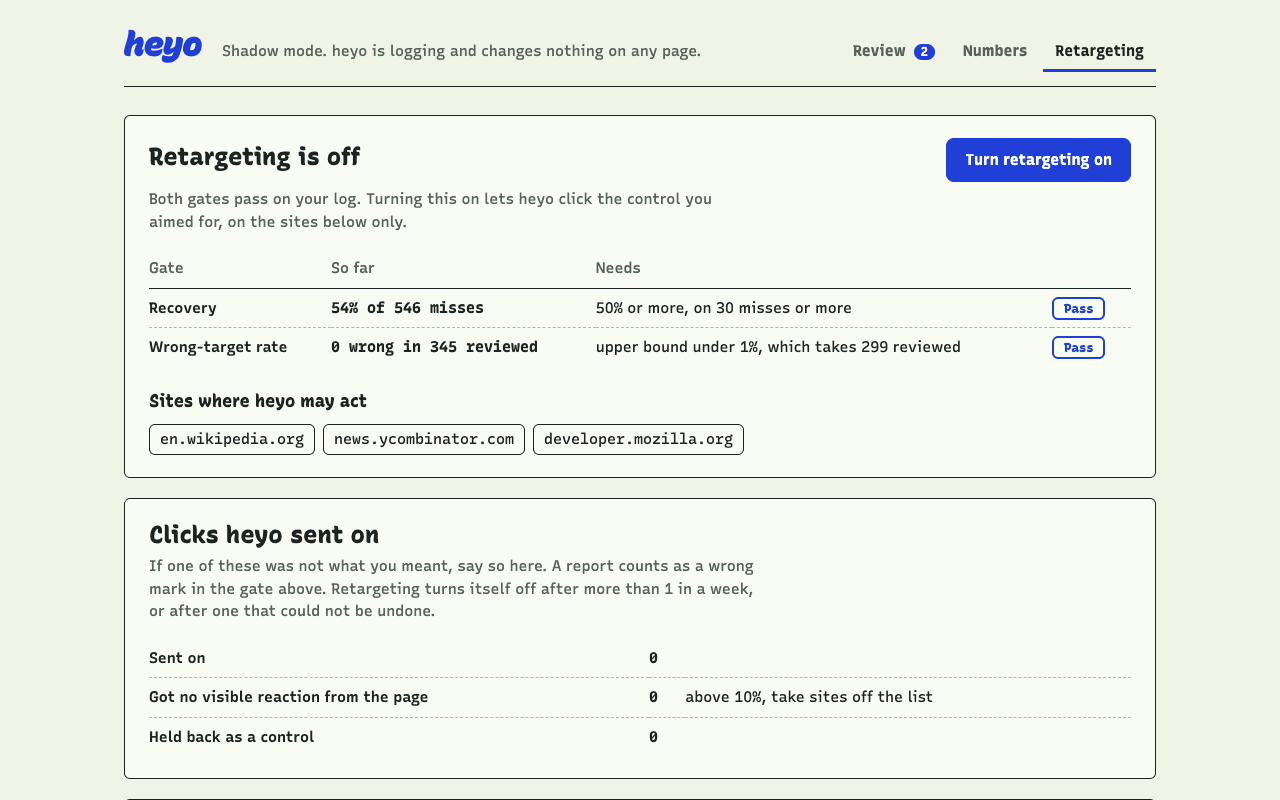
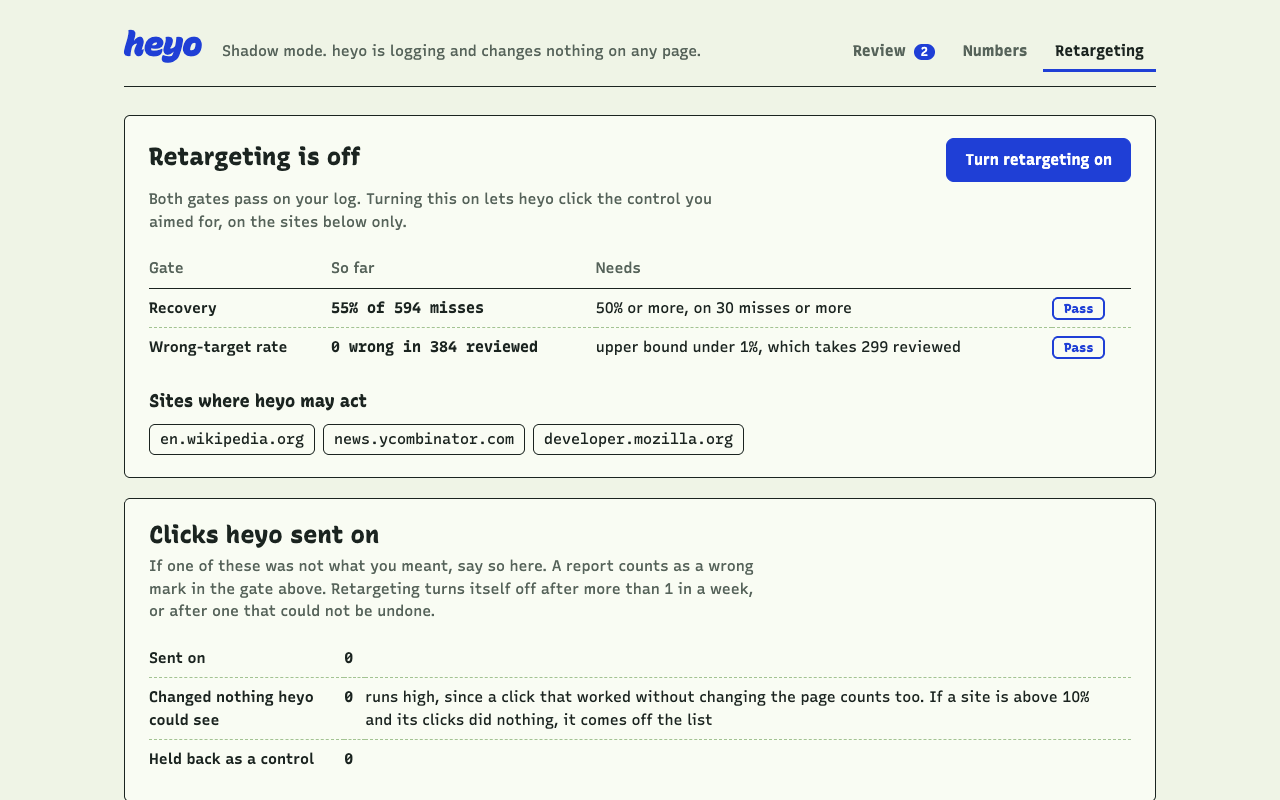
Add the status page, name Node 26, and retake the store screenshots

diff --git a/docs/status.md b/docs/status.md
@@ -1,0 +1,31 @@
+# Status
+
+Last updated 17 November 2026.
+
+## What works
+
+- **Shadow mode.** The Chrome extension logs every empty-space click that has a control nearby: what was near, what the decision would have picked, whether the page reacted, and where the next press went. It changes nothing on any page. Installing it is one command and three clicks in Chrome, as the [README](../README.md) says.
+- **Hand review and export.** The toolbar button opens the review page. The Review tab shows each would-be fire as a drawing and takes a mark from one key. The Numbers tab shows the miss rate, recovery and the wrong-target bound against the plan's limits, exports the log to a file and deletes it.
+- **Scoring.** `npm run score` and `npm run gates` judge a decision on an exported log, with the decision kept away from the labels. `npm run synth` writes a synthetic log. `npm run scripted` plays the same clicks through the real extension with a real mouse. [scoring.md](scoring.md) explains the numbers.
+- **The agent loop.** `npm run loop` lets a coding agent tune the decision on the train split of a log. On macOS the agent cannot read the held-out split or change the scorer. [agent-loop.md](agent-loop.md) has the command.
+- **The decision.** It passes both of the plan's gates on the held-out split of six 24-week logs, three synthetic and three scripted: recovery from 52.9% to 58.9%, and a wrong-target upper bound from 0.39% to 0.72%. The table is in [decisions.md](decisions.md) under "Decision".
+- **Retargeting.** With the gates passing on the local log, the Retargeting tab unlocks. heyo then sends a missed click on to its target on three sites: en.wikipedia.org, news.ycombinator.com and developer.mozilla.org. Each has a scripted replay test against the live site. heyo turns retargeting off by itself when the log stops passing, after a wrong click that could not be undone, or after more than one wrong click in a week.
+- **Launch files.** `npm run package` writes the zip the Chrome Web Store takes. [store/listing.md](../store/listing.md) has the listing text, the permission justifications and the data disclosures. The screenshots and the promo tile are in `store/`. The privacy policy is [privacy.md](privacy.md).
+- **The Mac experiment.** `mac/` holds the feasibility experiment the plan asks for before any Mac app. It builds, and its unit tests pass.
+
+## What the numbers do and do not show
+
+Every gate result so far is on generated clicks. The synthetic and scripted logs show that the capture, the scorer and the decision hold together, and that the decision clears the gates under the generator's stated guesses. They say nothing about how often a real person misses, or which control they meant. The plan's first stop condition, a miss rate of at least 0.5% of clicks and 3 a day over two weeks, can only be judged on a real log.
+
+## What is left
+
+- Two weeks of real use in shadow mode, and about 300 hand-reviewed fires. Then the gates on that log decide whether retargeting goes on. If the decision misses a gate there, the agent loop is the next step, from about 500 labeled misses.
+- The Mac experiment has not been run, so there is no go or no-go for a Mac app, and no Mac app beyond the experiment. The plan puts the experiment first for that reason.
+- More sites on the allowlist. Each needs its own replay test.
+
+## What needs Krish
+
+1. **Load the extension in your own Chrome and use it for two weeks.** `npm ci && npm run install:chrome`, then the three steps it prints. Mark the fires on the Review tab as they come.
+2. **Accessibility permission for the Mac experiment.** In System Settings, Privacy & Security, Accessibility, turn on the terminal app you run it from. Then `cd mac && swift run -c release heyo-feasibility all --out ../docs/mac-feasibility-result`. It takes a few minutes and moves the pointer while it runs. [mac-feasibility.md](mac-feasibility.md) says how to read the result.
+3. **A Chrome Web Store developer account**, which has a one-time fee. Upload `dist/heyo-extension-<version>.zip` and paste the fields from [store/listing.md](../store/listing.md). Start it as Unlisted.
+4. **An Apple Developer ID certificate**, only if the Mac experiment says go and a Mac app gets built. Nothing needs it today.

diff --git a/README.md b/README.md
@@ -11,7 +11,7 @@ heyo is a Chrome extension. It starts in shadow mode, where it only logs what it
 
 ## Install
 
-You need Node 22 or later and Google Chrome.
+You need Node 26 or later and Google Chrome.
 
 ```bash
 git clone https://github.com/krishhgg/heyo && cd heyo && npm ci && npm run install:chrome
@@ -43,7 +43,7 @@ After two weeks, Numbers says whether misses are common enough to go on: at leas
 
 When the gates pass you can turn retargeting on. heyo then clicks the control you aimed for, on the sites in [src/extension/allowlist.ts](src/extension/allowlist.ts) only. A site gets on that list with a scripted near miss in `e2e/live/` that makes the intended action happen exactly once.
 
-If heyo clicks something you did not mean, open the Retargeting tab and mark that click wrong. It turns itself off after a wrong click that could not be undone, or more than one in a week.
+If heyo clicks something you did not mean, open the Retargeting tab and mark that click wrong. It turns itself off after a wrong click that could not be undone, after more than one in a week, and whenever your log stops passing the gates, such as after you delete it.
 
 ## Score a log
 

diff --git a/docs/privacy.md b/docs/privacy.md
@@ -45,7 +45,7 @@ Nothing, unless you choose "Export the log" on the review page. That saves a fil
 ## Permissions
 
 - Running on all sites. heyo has to see a click on whatever page you are on. It reads the page only around a click, as described above.
-- Storage. heyo keeps its settings there, such as whether retargeting is on.
+- Storage. heyo keeps its settings there: whether retargeting is on, whether it waits out a double-click, and the times at which you reported a wrong click.
 
 ## Changes to pages
 

diff --git a/store/listing.md b/store/listing.md
@@ -59,7 +59,7 @@ heyo sends a mouse click that landed on empty space to the nearby control the us
 
 **Permission justification: storage**
 
-heyo stores its settings there, such as whether retargeting is on, so that the scripts running in pages can read them.
+heyo stores its settings there, such as whether retargeting is on and when the user reported a wrong click, so that the scripts running in pages can read them.
 
 **Permission justification: host permissions (content scripts on all sites)**
 
